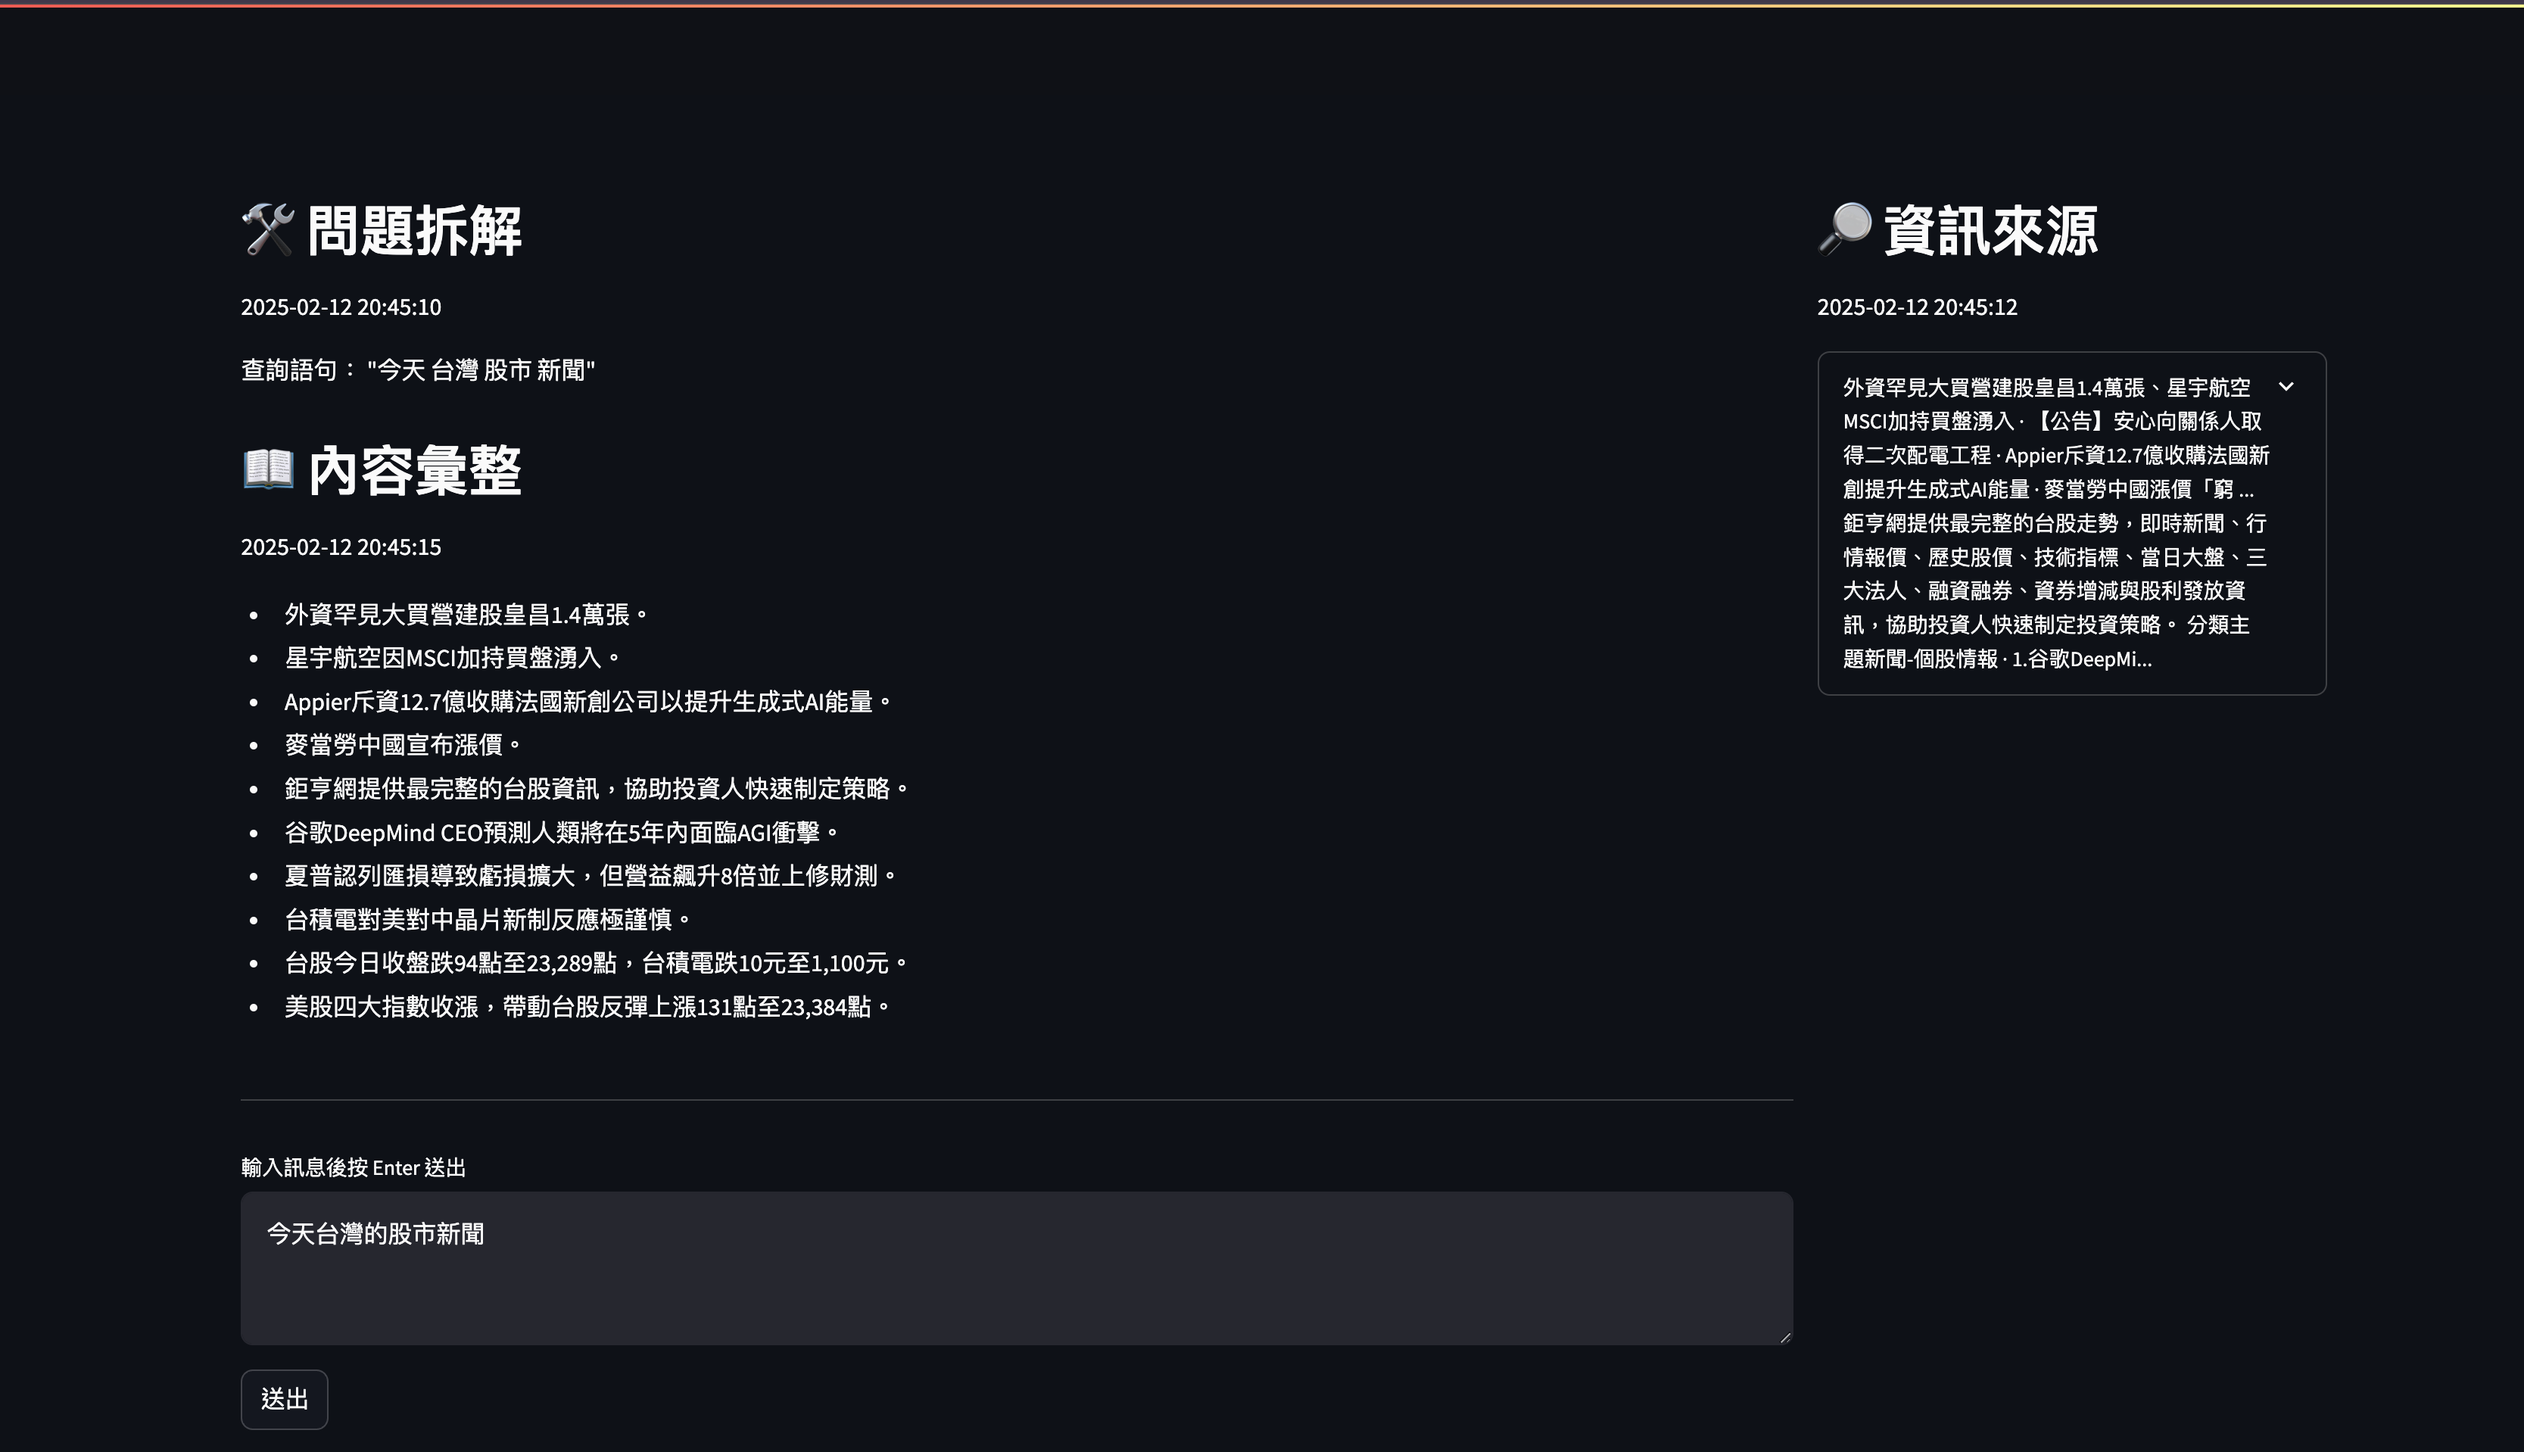
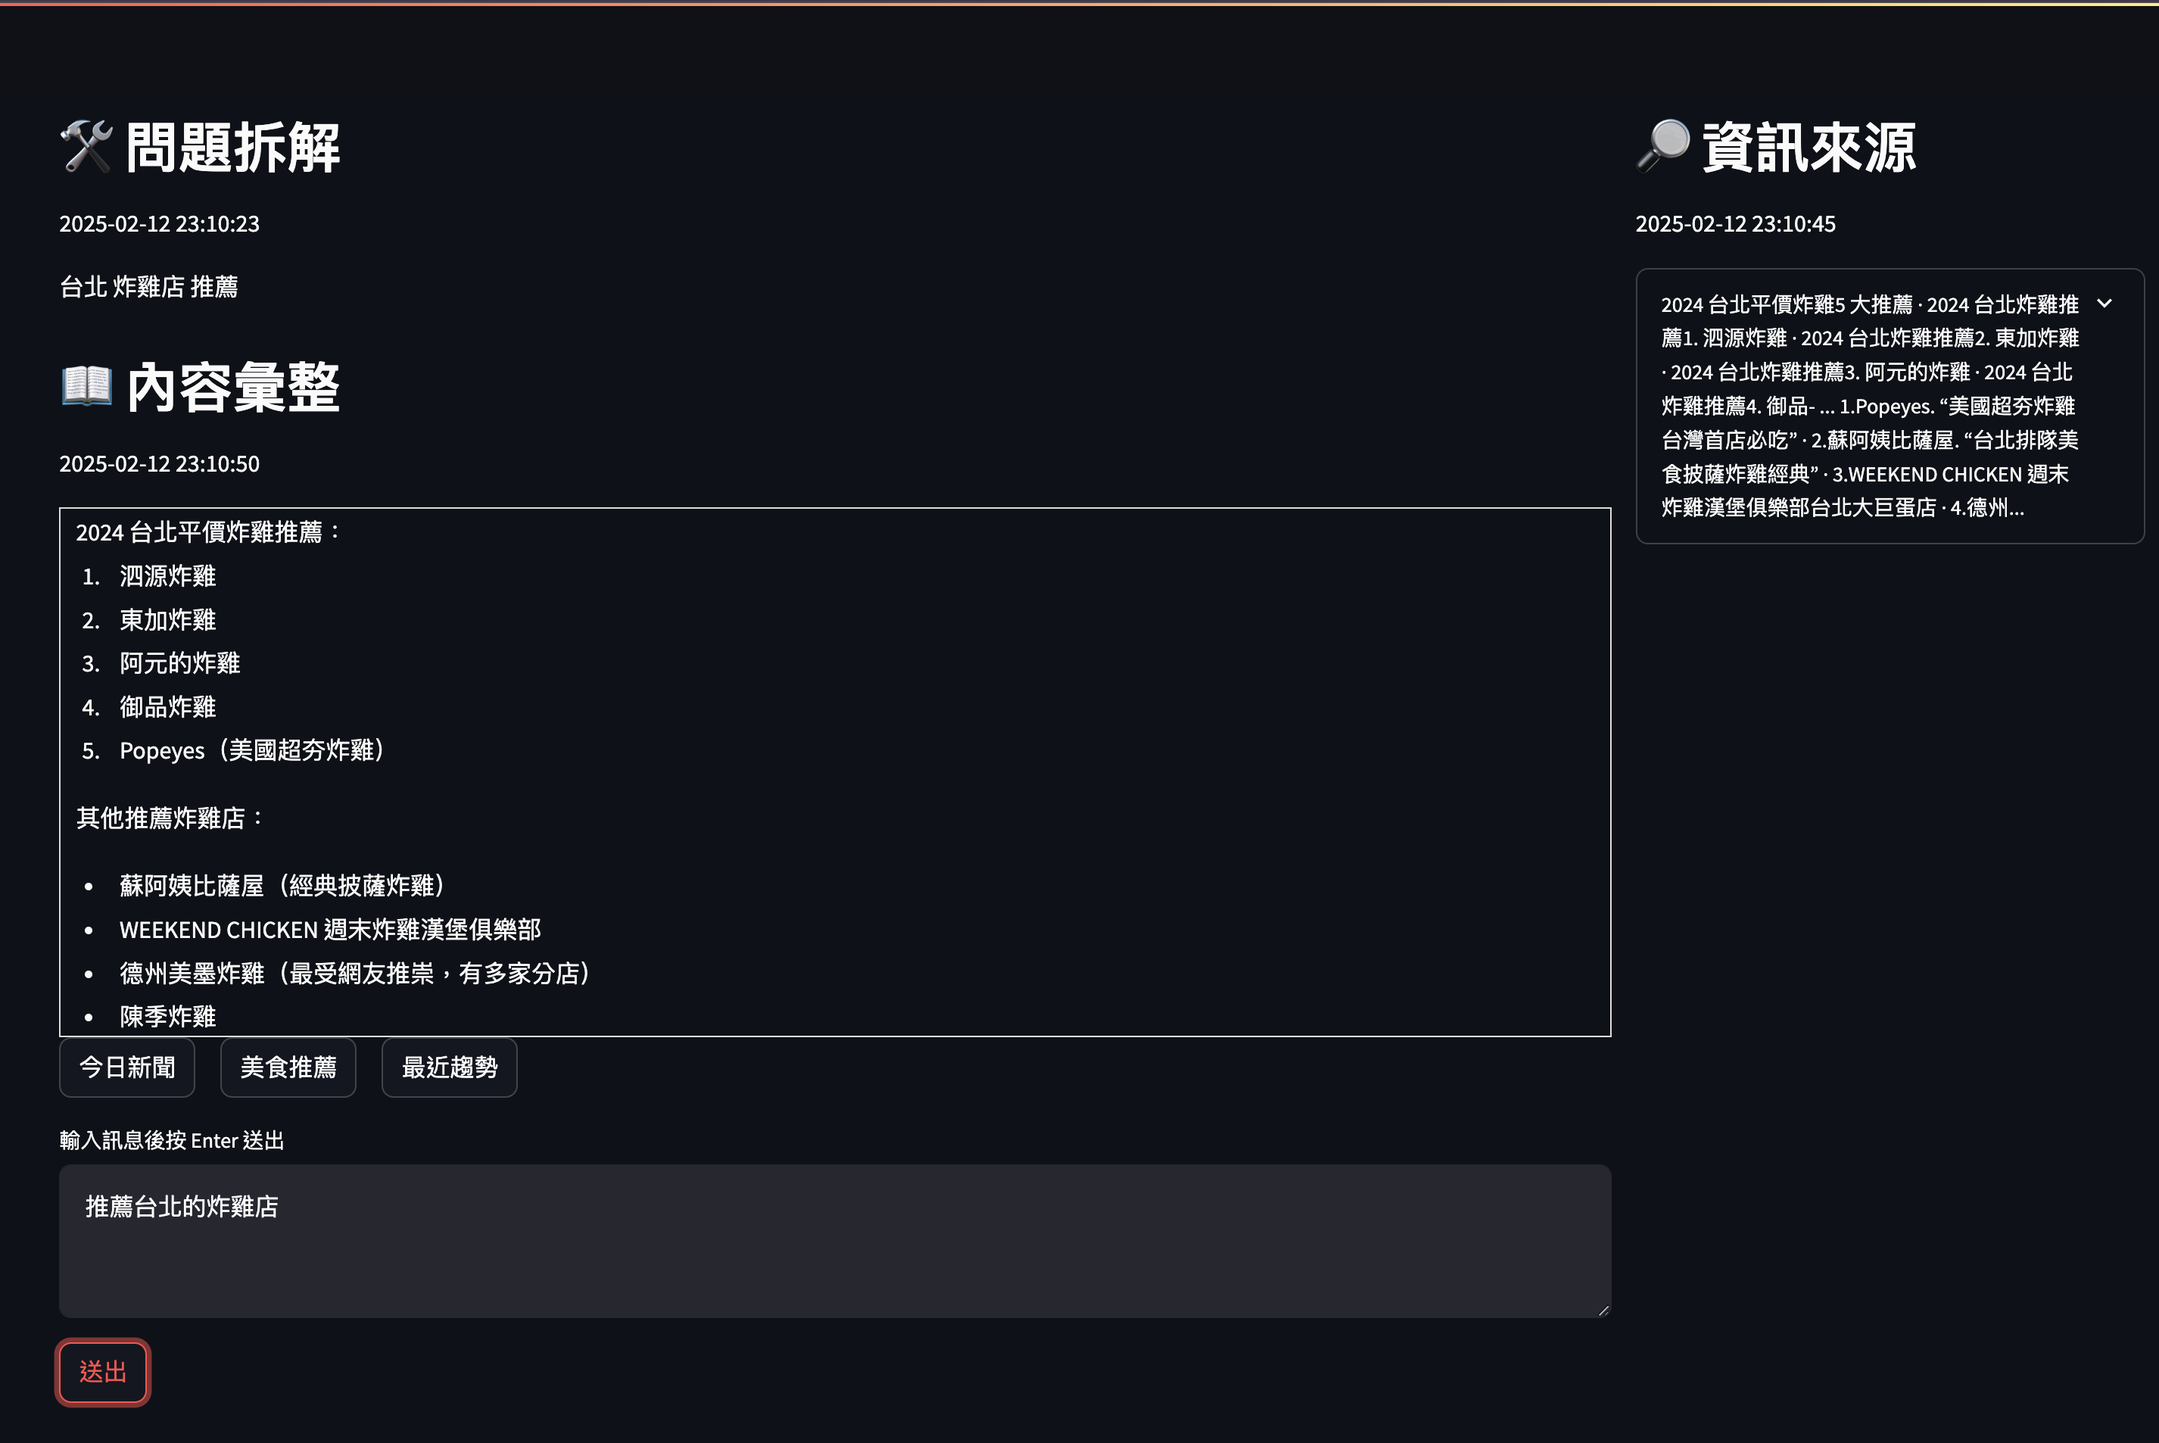
調整版面，增加快速輸入按鈕

diff --git a/app.py b/app.py
@@ -15,7 +15,7 @@ api_key = os.getenv("API_KEY")
 # 設定頁面標題
 st.set_page_config(page_title="對話輸入介面", layout="wide")
 
-# 使用 CSS 調整頁面寬度
+# 使用 CSS 調整頁面寬度與固定大小的顯示區
 st.markdown("""
     <style>
         .block-container {
@@ -23,33 +23,46 @@ st.markdown("""
             padding-left: 5% !important;
             padding-right: 5% !important;
         }
+        
+        /* 固定內容彙整區大小 */
+        .fixed-size-container {
+            height: 350px;
+            overflow-y: auto;
+            border: 1px solid #ddd;
+            padding: 10px;
+            display: flex;
+            flex-direction: column;
+        }
     </style>
 """, unsafe_allow_html=True)
 
 # 初始化 session_state
 if "outputs" not in st.session_state:
     st.session_state.outputs = []
+if "user_input" not in st.session_state:
+    st.session_state.user_input = ""
+
+# 時區轉換函數
+def convert_timestamp(timestamp):
+    try:
+        dt_utc = datetime.strptime(timestamp.replace(" UTC", ""), "%Y-%m-%d %H:%M:%S")
+        dt_taipei = dt_utc + timedelta(hours=8)
+        return dt_taipei.strftime("%Y-%m-%d %H:%M:%S")
+    except ValueError:
+        return "格式錯誤"
 
 # 建立兩個欄位
 col1, col2 = st.columns([3, 1])
 
 # **左邊欄位（col1）：顯示對話分析結果**
 with col1:
-
     parsed_results = {}
 
     for output in st.session_state.outputs:
         component_id = output["component_id"]
         text_content = output["results"]["text"].get("text", "")
         timestamp = output["results"]["text"]["data"].get("timestamp", "1970-01-01 00:00:00 UTC")
-
-        # **時區轉換（UTC +8）**
-        try:
-            dt_utc = datetime.strptime(timestamp.replace(" UTC", ""), "%Y-%m-%d %H:%M:%S")
-            dt_taipei = dt_utc + timedelta(hours=8)
-            formatted_timestamp = dt_taipei.strftime("%Y-%m-%d %H:%M:%S")
-        except ValueError:
-            formatted_timestamp = "格式錯誤"
+        formatted_timestamp = convert_timestamp(timestamp)
 
         # **根據 component_id 存入對應內容**
         if component_id == "TextOutput-fTzY9":
@@ -57,44 +70,56 @@ with col1:
         elif component_id == "TextOutput-JHNPu":
             parsed_results["內容彙整"] = {"text": text_content, "timestamp": formatted_timestamp}
 
-    # 顯示解析結果
+    # **顯示對話分析結果**
     st.header("🛠 問題拆解")
     st.write(parsed_results.get("問題拆解", {}).get("timestamp", ""))
     st.write(parsed_results.get("問題拆解", {}).get("text", ""))
 
     st.header("📖 內容彙整")
     st.write(parsed_results.get("內容彙整", {}).get("timestamp", ""))
-    st.write(parsed_results.get("內容彙整", {}).get("text", ""))
+    st.markdown('<div class="fixed-size-container">' + parsed_results.get("內容彙整", {}).get("text", "") + '</div>', unsafe_allow_html=True)
 
-    # **輸入框固定在底部**
-    with st.container():
-        st.markdown("---")  # 分隔線
-        user_input = st.text_area("輸入訊息後按 Enter 送出", key="user_input", placeholder="輸入你的訊息...")
+    # **快速輸入按鈕 (在同一水平列靠左)**
+    button_container = st.container()
+    with button_container:
+        col_buttons = st.columns([1, 1, 1, 7])  # 三個按鈕靠左，右側留空間
+        with col_buttons[0]:
+            if st.button("今日新聞"):
+                st.session_state.user_input = "今日台灣股市新聞"
+        with col_buttons[1]:
+            if st.button("美食推薦"):
+                st.session_state.user_input = "推薦台北的炸雞店"
+        with col_buttons[2]:
+            if st.button("最近趨勢"):
+                st.session_state.user_input = "最近AI的發展趨勢"
 
-        if st.button("送出"):
-            if user_input.strip():  # 避免空白輸入
-                st.session_state.latest_input = user_input  # 儲存輸入內容
-
-                # 呼叫 Langchain API 進行對話摘要分析
-                headers = {"Authorization": f"Bearer {api_key}", "Content-Type": "application/json"}
-                data = {
-                    "input_value": user_input,
-                    "output_type": "text",
-                    "input_type": "text",
-                    "tweaks": {
-                        "TextOutput-fTzY9": {"output_format": "json"},
-                        "TextOutput-Mps7C": {"output_format": "json"},
-                        "TextOutput-JHNPu": {"output_format": "json"}
-                    }
+    # **輸入框**
+    user_input = st.text_area("輸入訊息後按 Enter 送出", key="user_input", value=st.session_state.user_input, placeholder="輸入你的訊息...")
+    
+    if st.button("送出"):
+        if user_input.strip():  # 避免空白輸入
+            st.session_state.latest_input = user_input  # 儲存輸入內容
+            
+            # 呼叫 Langchain API 進行對話摘要分析
+            headers = {"Authorization": f"Bearer {api_key}", "Content-Type": "application/json"}
+            data = {
+                "input_value": user_input,
+                "output_type": "text",
+                "input_type": "text",
+                "tweaks": {
+                    "TextOutput-fTzY9": {"output_format": "json"},
+                    "TextOutput-Mps7C": {"output_format": "json"},
+                    "TextOutput-JHNPu": {"output_format": "json"}
                 }
+            }
 
-                # 發送請求
-                response = requests.post(langchain_api_url, headers=headers, json=data)
-                response.raise_for_status()  # 若發生錯誤會觸發例外
-                st.session_state.outputs = response.json()["outputs"][0]["outputs"]
-
-                # **清空輸入框並更新畫面**
-                st.rerun()
+            # 發送請求
+            response = requests.post(langchain_api_url, headers=headers, json=data)
+            response.raise_for_status()  # 若發生錯誤會觸發例外
+            st.session_state.outputs = response.json()["outputs"][0]["outputs"]
+            
+            # **清空輸入框並更新畫面**
+            st.rerun()
 
 # **右側欄位（col2）：資訊來源**
 with col2:
@@ -105,23 +130,15 @@ with col2:
         component_id = output["component_id"]
         text_content = output["results"]["text"].get("text", "")
         timestamp = output["results"]["text"]["data"].get("timestamp", "1970-01-01 00:00:00 UTC")
-
-        # **轉換時區**
-        try:
-            dt_utc = datetime.strptime(timestamp.replace(" UTC", ""), "%Y-%m-%d %H:%M:%S")
-            dt_taipei = dt_utc + timedelta(hours=8)
-            formatted_timestamp = dt_taipei.strftime("%Y-%m-%d %H:%M:%S")
-        except ValueError:
-            formatted_timestamp = "格式錯誤"
+        formatted_timestamp = convert_timestamp(timestamp)
 
         if component_id == "TextOutput-Mps7C":
             parsed_results["資訊來源"] = {"text": text_content, "timestamp": formatted_timestamp}
 
     st.write(parsed_results.get("資訊來源", {}).get("timestamp", ""))
     
-    # **預設顯示 200 字，可展開查看完整內容**
     content = parsed_results.get("資訊來源", {}).get("text", "")
     preview_text = content[:200]
     
     with st.expander(preview_text + ("..." if len(content) > 200 else "")):
-        st.write(content)  # 展開後顯示完整訊息
+        st.write(content)
